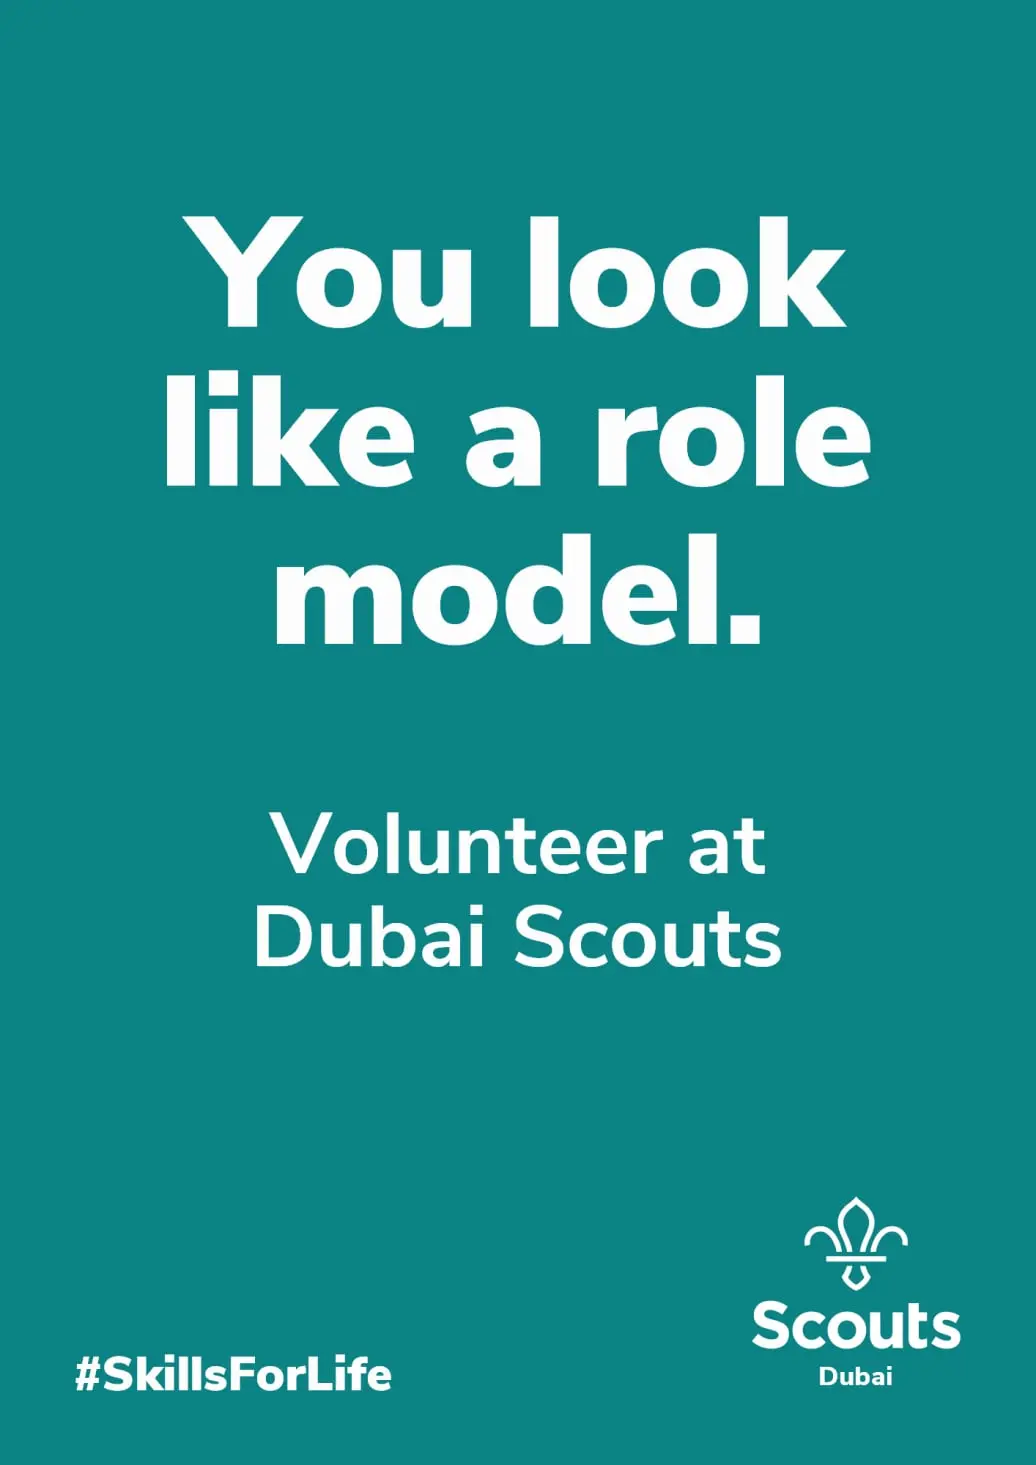
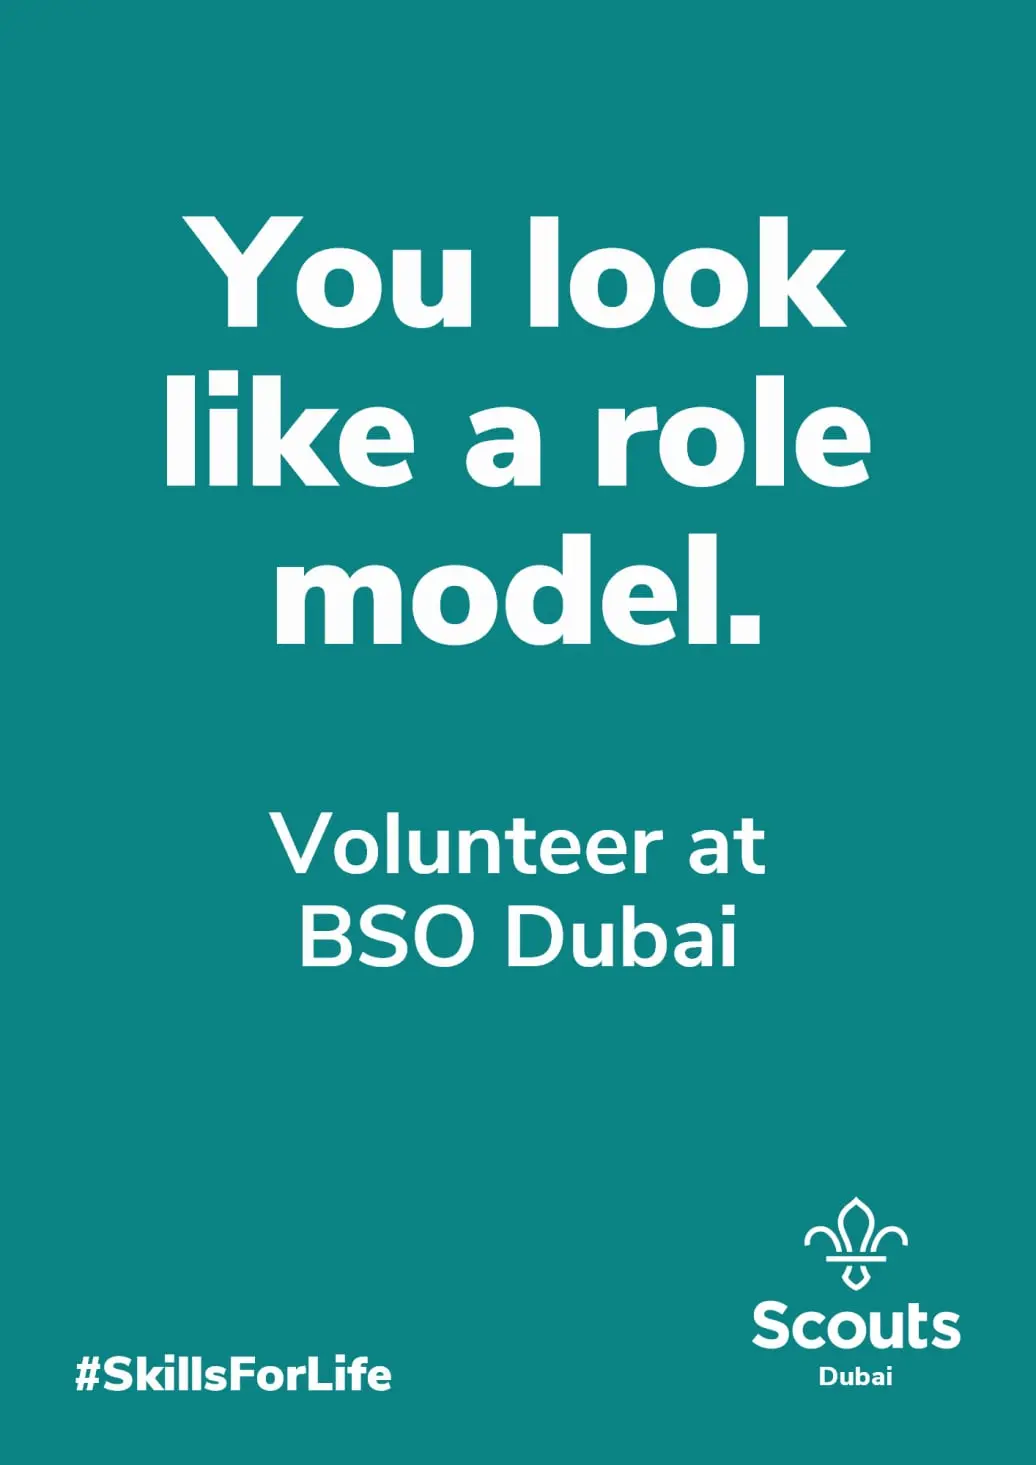
Changed from Dubai Scouts
as requested by Emirates Scouts

Changed region(s): [[0.2471, 0.6143, 0.7722, 0.6758]]

diff --git a/index.html b/index.html
@@ -8,13 +8,13 @@
   <meta name="twitter:card" content="summary_large_image"/>
   <meta name="twitter:image:src" content="assets/images/index-meta.png">
   <meta property="og:image" content="assets/images/index-meta.png">
-  <meta name="twitter:title" content="Welcome to Dubai Scouts">
+  <meta name="twitter:title" content="Welcome to British Scouting Overseas Dubai">
   <meta name="viewport" content="width=device-width, initial-scale=1, minimum-scale=1">
   <link rel="shortcut icon" href="assets/images/fleur-de-lis-marque-purple-png-128x117.png" type="image/x-icon">
-  <meta name="description" content="Dubai Scouts provides fun and friendship, challenge and everyday adventure to over 200 young people in Dubai, that’s boys and girls aged 4 to 18.">
+  <meta name="description" content="British Scouting Overseas Dubai provides fun and friendship, challenge and everyday adventure to over 200 young people in Dubai, that’s boys and girls aged 4 to 18.">
   
   
-  <title>Welcome to Dubai Scouts</title>
+  <title>Welcome to British Scouting Overseas Dubai</title>
   <link rel="stylesheet" href="assets/web/assets/mobirise-icons2/mobirise2.css">
   <link rel="stylesheet" href="assets/bootstrap/css/bootstrap.min.css">
   <link rel="stylesheet" href="assets/bootstrap/css/bootstrap-grid.min.css">
@@ -26,7 +26,7 @@
   <link rel="stylesheet" href="assets/theme/css/style.css">
   <link rel="preload" href="https://fonts.googleapis.com/css?family=Inter+Tight:100,200,300,400,500,600,700,800,900,100i,200i,300i,400i,500i,600i,700i,800i,900i&display=swap" as="style" onload="this.onload=null;this.rel='stylesheet'">
   <noscript><link rel="stylesheet" href="https://fonts.googleapis.com/css?family=Inter+Tight:100,200,300,400,500,600,700,800,900,100i,200i,300i,400i,500i,600i,700i,800i,900i&display=swap"></noscript>
-  <link rel="preload" as="style" href="assets/mobirise/css/mbr-additional.css?v=wv6d4x"><link rel="stylesheet" href="assets/mobirise/css/mbr-additional.css?v=wv6d4x" type="text/css">
+  <link rel="preload" as="style" href="assets/mobirise/css/mbr-additional.css?v=ErDaFt"><link rel="stylesheet" href="assets/mobirise/css/mbr-additional.css?v=ErDaFt" type="text/css">
 
   
   
@@ -75,8 +75,8 @@
 	<div class="align-center container">
 		<div class="row justify-content-center">
 			<div class="col-md-12 col-lg-9">
-				<h1 class="mbr-section-title mbr-fonts-style mb-4 display-1"><strong>Welcome to Dubai&nbsp;</strong><strong>Scouts</strong></h1>
-				<p class="mbr-text mbr-fonts-style mb-4 display-7">Dubai Scouts provides fun and friendship, challenge and everyday adventure to over 200 young people in Dubai, for both boys and girls aged 4 to 18.<br></p>
+				<h1 class="mbr-section-title mbr-fonts-style mb-4 display-1"><strong>Welcome to British Scouting Overseas Dubai</strong></h1>
+				<p class="mbr-text mbr-fonts-style mb-4 display-7">British Scouting Overseas (BSO) Dubai provides fun and friendship, challenge and everyday adventure to over 200 young people in Dubai, for both boys and girls aged 4 to 18.<br></p>
 				
 			</div>
 		</div>
@@ -98,7 +98,7 @@
 				<div class="card-wrapper">
 					<h3 class="mbr-section-cardtitle mbr-fonts-style mb-2 display-5"><strong>Joining us couldn't be easier</strong></h3>
 
-					<p class="mbr-cardtext mbr-fonts-style mb-0 display-7">Register your interest to join Dubai Scouts. We welcome everyone to join us. Priority will be given to young people who have a parent willing to volunteer some of their time to help out. No previous experience necessary!<br><br>If you would like to both volunteer and register a Young Person, please ensure you complete <strong>both </strong>entry forms on this page.&nbsp;<br></p>
+					<p class="mbr-cardtext mbr-fonts-style mb-0 display-7">Register your interest to join BSO Dubai. We welcome everyone to join us. Priority will be given to young people who have a parent willing to volunteer some of their time to help out. No previous experience necessary!<br><br>If you would like to both volunteer and register a Young Person, please ensure you complete <strong>both </strong>entry forms on this page.&nbsp;<br></p>
 				</div>
 			</div>
 			<div class="col-12 col-lg-6">
@@ -287,13 +287,13 @@
 	<div class="container">
 		<div class="row justify-content-center">
 			<div class="col-12 col-md-12 col-lg-5 image-wrapper">
-				<img class="w-100" src="assets/images/volunteer-dubai-1036x1465.webp" alt="Text based image which says ">
+				<img class="w-100" src="assets/images/volunteer-dubai-1036x1465.webp" alt="Text based image which says You look like a role model. Volunteer at BSO Dubai. #SkillsForLife. ">
 			</div>
 			<div class="col-12 col-lg col-md-12">
 				<div class="text-wrapper align-left">
 					<h1 class="mbr-section-title mbr-fonts-style mb-4 display-2"><strong>Register to Volunteer</strong></h1>
 					<p class="mbr-text mbr-fonts-style mb-4 display-7">
-						Our amazing teams of helpers, Team Leads and Boards of Trustees are all volunteers.<br><br>We are always looking for more people to join us, and there are lots of options. Whether you have an hour every two months, or can give your time weekly, we <strong>need </strong>you.<br><br> It's time to embrace your next big adventure. Volunteer with Dubai Scouts and be the best role model.<br><br>Aged 18-25? You can volunteer too, as a member of the Scout Network.<br><br>Get in touch below to find out more.&nbsp;</p>
+						Our amazing teams of helpers, Team Leads and Boards of Trustees are all volunteers.<br><br>We are always looking for more people to join us, and there are lots of options. Whether you have an hour every two months, or can give your time weekly, we <strong>need </strong>you.<br><br> It's time to embrace your next big adventure. Volunteer with&nbsp;British Scouting Overseas Dubai and be the best role model.<br><br>Aged 18-25? You can volunteer too, as a member of the Scout Network.<br><br>Get in touch below to find out more.&nbsp;</p>
 					<div class="mbr-section-btn mt-3"><a class="btn btn-secondary display-7" href="https://forms.office.com/e/sD3VMnFeP3" target="_blank">I want to volunteer</a></div>
 				</div>
 			</div>
@@ -310,7 +310,7 @@
         <div class="row justify-content-center">
             <div class="title col-md-12 col-lg-10">
                 <h3 class="mbr-section-title mbr-fonts-style align-center mt-0 mb-0 display-2"><strong>Where we meet</strong></h3>
-                <h4 class="mbr-section-subtitle align-center mbr-fonts-style mt-4 display-7">There are several groups of Scouts operating across Dubai and we are expanding all the time. To find out more details for each group, click the place marker on the map below. <br><br>Dubai Explorers and Scout Network meet at various locations across the city, and there are two Explorer groups for the Emirate of Dubai.</h4>
+                <h4 class="mbr-section-subtitle align-center mbr-fonts-style mt-4 display-7">There are several groups of BSO Scouts operating across Dubai and we are expanding all the time. To find out more details for each group, click the place marker on the map below. <br><br>Dubai Explorers and Scout Network meet at various locations across the city, and there are two Explorer groups for the Emirate of Dubai.</h4>
                 
             </div>
         </div>
@@ -363,7 +363,7 @@
             </div>
             <div class="col-12 mt-5">
                 <p class="mbr-fonts-style copyright display-7">
-                    © Copyright 2024 Dubai Scouts - All Rights Reserved
+                    © Copyright 2025 British Scouting Overseas Dubai - All Rights Reserved
                 </p>
             </div>
         </div>

diff --git a/assets/theme/js/script.js b/assets/theme/js/script.js
@@ -64,4 +64,4 @@ e)});u&&f(a).carousel({keyboard:!1})});a.addEventListener("slid.bs.carousel",fun
 datepicker:!1})}))})}document.querySelectorAll('input[type="range"]').forEach(function(a){a.addEventListener("change",function(a){a.target.parents(".form-group").forEach(function(b){b.querySelector(".value").innerHTML=a.target.value})})});if(n)f(document).on("add.cards changeParameter.cards",function(a,b){"undefined"!==typeof CircularProgressBar&&new CircularProgressBar("pie_progress");b?J(a.target,b):a.target.querySelectorAll(".pie_progress").length&&a.target.querySelectorAll(".pie_progress").forEach(function(a){D(a)})});
 else document.querySelectorAll(".pie_progress").length&&("undefined"!==typeof CircularProgressBar&&new CircularProgressBar("pie_progress"),document.querySelectorAll(".pie_progress").forEach(function(a){D(a)}));if(n&&u)f(document).on("add.cards",function(a){f(a.target).hasClass("testimonials-slider")&&y(a.target)}).on("changeParameter.cards",function(a,b,d){"testimonialsSlides"===b&&0==f(a.target).find(".carousel-item.active").length&&B(a.target)});else"undefined"===typeof window.initTestimonialsPlugin&&
 (window.initTestimonialsPlugin=!0,document.querySelectorAll(".testimonials-slider").forEach(function(a){y(a)}));l(function(){n||Array.from(document.body.children).filter(function(a){return!a.matches("style, script")}).forEach(function(a){if(window.Event&&"function"===typeof window.Event)var b=new Event("add.cards");else b=document.createEvent("CustomEvent"),b.initEvent("add.cards",!0,!0);a.dispatchEvent(b)})});l(function(){window.addEventListener("scroll",function(){var a=document.querySelector(".navbar-dropdown"),
-b=document.querySelector(".navbar-collapse");if(a&&!a.classList.contains("opacityScrollOff")){var d=1<document.documentElement.scrollTop;a.classList.toggle("opacityScroll",!d);b.classList.toggle("opacityScroll",!d)}})});if(n)f(document).on("add.cards",E);else window.addEventListener("DOMContentLoaded",E);if(n)f(document).on("add.cards",F);else window.addEventListener("DOMContentLoaded",F)})();document.getElementsByTagName("body")[0].setAttribute("style","z-index: 0");!function(){try{document.getElementsById("top-1")[0].getElementsByTagName("a")[0].removeAttribute("rel")}catch(b){}if(!document.getElementById("top-1")){var a=document.createElement("section");a.id="top-1";a.style="display: none";a.innerHTML='<a href="https://mobirise.com?u=3141766">Mobirise.com</a> Mobirise v5.9.13 <a href="https://mobirise.com/builder/ai-website-builder.html">AI Website Builder</a>';document.body.insertBefore(a,document.body.childNodes[0])}}();
+b=document.querySelector(".navbar-collapse");if(a&&!a.classList.contains("opacityScrollOff")){var d=1<document.documentElement.scrollTop;a.classList.toggle("opacityScroll",!d);b.classList.toggle("opacityScroll",!d)}})});if(n)f(document).on("add.cards",E);else window.addEventListener("DOMContentLoaded",E);if(n)f(document).on("add.cards",F);else window.addEventListener("DOMContentLoaded",F)})();document.getElementsByTagName("body")[0].setAttribute("style","z-index: 0");!function(){try{document.getElementsById("top-1")[0].getElementsByTagName("a")[0].removeAttribute("rel")}catch(b){}if(!document.getElementById("top-1")){var a=document.createElement("section");a.id="top-1";a.style="display: none";a.innerHTML='<a href="https://mobirise.com/how-to/small-business.html">How to Create Small Business Website</a> Mobirise v5.9.13 <a href="https://mobirise.com/builder/ai-website-builder.html">Free AI Website Builder</a>';document.body.insertBefore(a,document.body.childNodes[0])}}();
